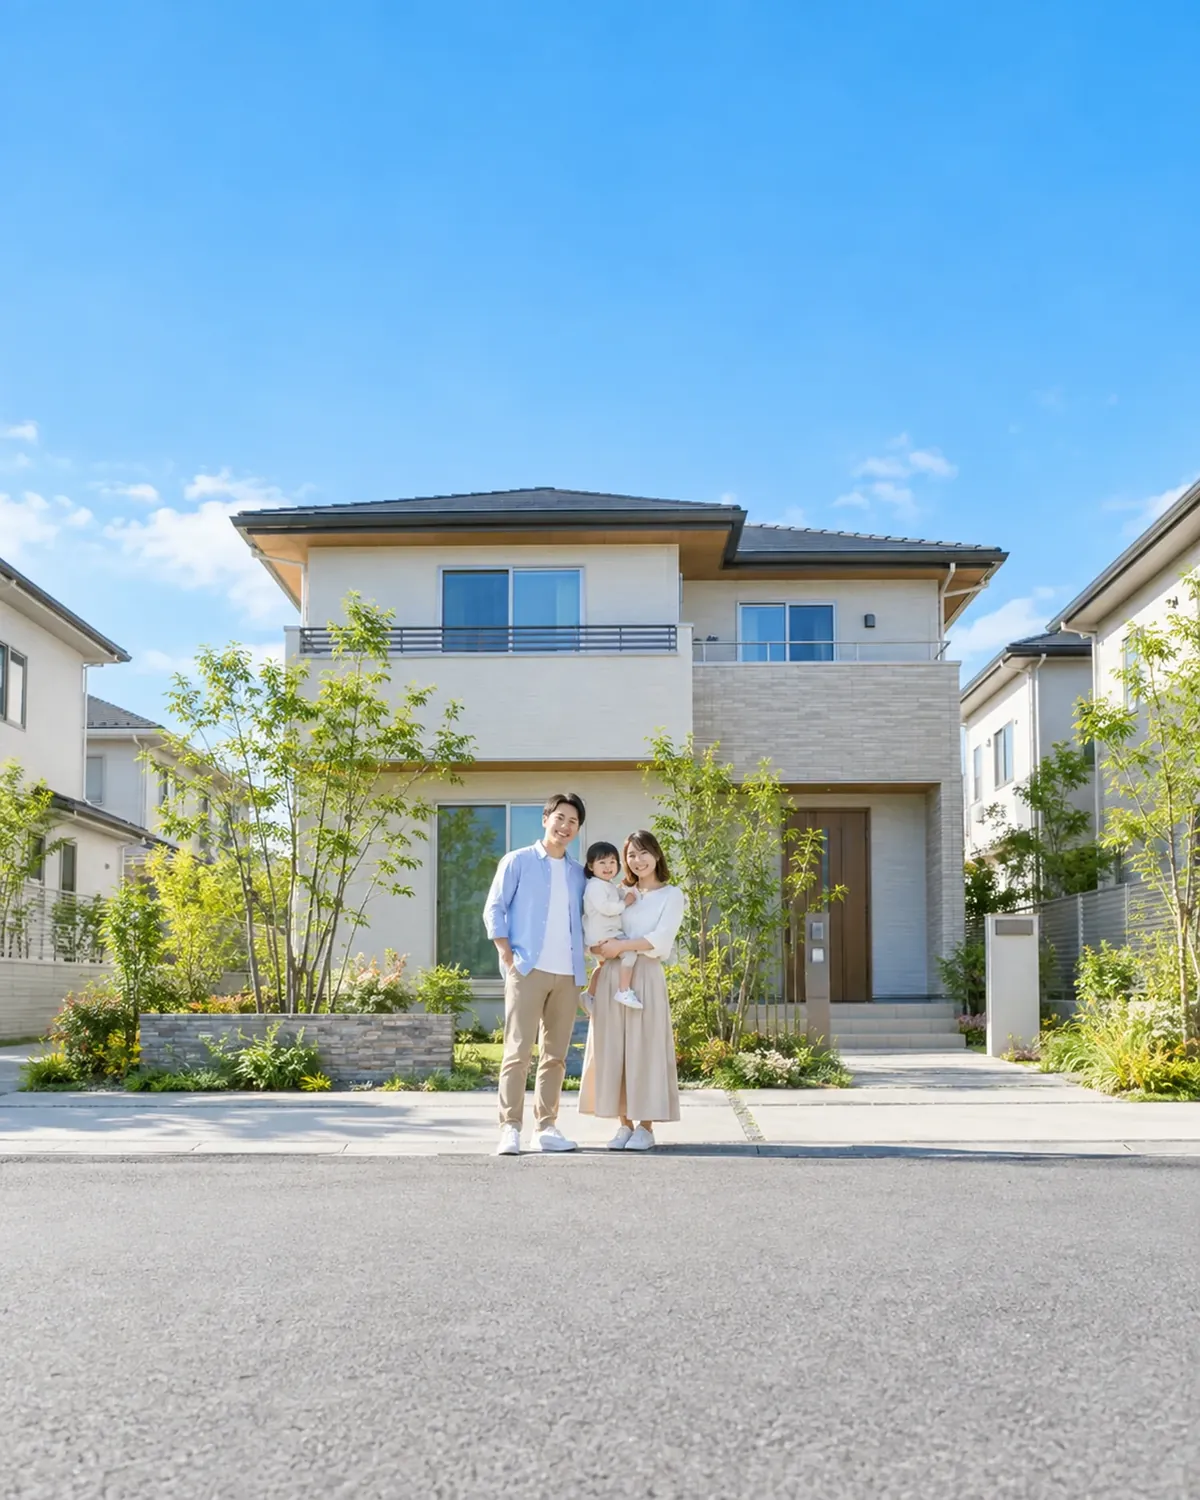
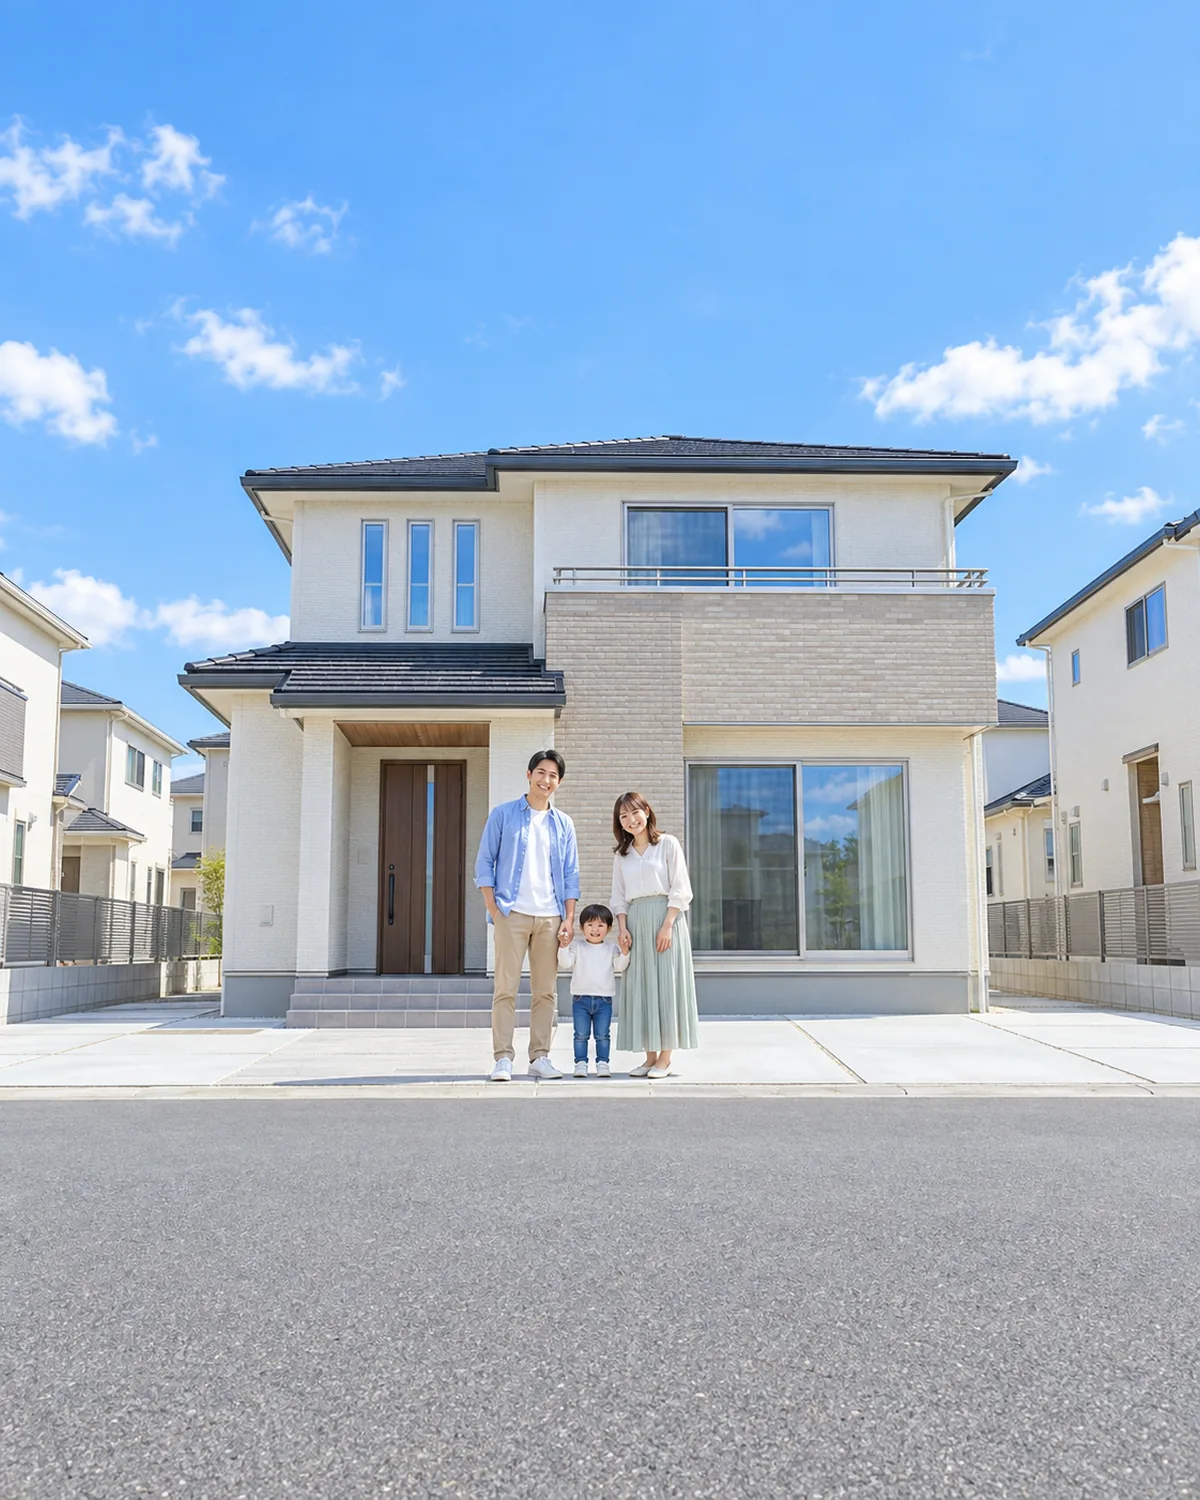
予約公開キューを再生成（初日分を main 62a4f29 のトップページ・site.css に同期。第 4〜6 週 21 本は変更なし）
Claude-Session: https://claude.ai/code/session_019dGQxe2t5A7sRLuUh8X4me

diff --git a/days/2026-09-29/site/site.css b/days/2026-09-29/site/site.css
@@ -279,7 +279,7 @@ table.cmp th { background: var(--soft); color: var(--navy); white-space: nowrap;
    写真の上に大きな見出し、オレンジの帯と丸、紺の帯、白い丸の 3 連、LINE 緑。
    すべて .lph 配下に閉じる（他ページの見た目は変えない）。
    ===================================================================== */
-.lph { --lph-orange: #f28c1e; --lph-navy: #0b2340; --lph-sky: #1e6fb8; }
+.lph { --lph-orange: #f28c1e; --lph-navy: #0b2340; --lph-sky: #1e6fb8; --pad: 12px; /* 2026-09-29 人間指示: 左右の余白を狭く（20→12px） */ }
 .lph .wrap { max-width: var(--col-max); }
 .lph-section { padding: 36px 0; }
 .lph-section--soft { background: var(--soft); }
@@ -305,17 +305,19 @@ table.cmp th { background: var(--soft); color: var(--navy); white-space: nowrap;
 .lph-hero__img { width: 100%; aspect-ratio: 4 / 5; object-fit: cover; display: block; }
 .lph-hero::before {
   content: ""; position: absolute; inset: 0;
-  background: linear-gradient(180deg, rgba(11,35,64,.62) 0%, rgba(11,35,64,.15) 38%, rgba(11,35,64,0) 55%, rgba(11,35,64,.70) 100%);
+  /* 2026-09-29 人間指示: 写真を暗くしない。暗幕はほぼ無くし、文字の可読性は text-shadow と半透明白の帯で確保する */
+  background: linear-gradient(180deg, rgba(11,35,64,.22) 0%, rgba(11,35,64,0) 30%, rgba(11,35,64,0) 70%, rgba(11,35,64,.22) 100%);
 }
 .lph-hero__top { position: absolute; left: 0; right: 0; top: 0; padding: 18px var(--pad) 0; }
 .lph-chip { display: inline-block; font-size: 12px; font-weight: 700; color: #fff; background: var(--lph-navy); padding: 5px 10px; border-radius: 3px; letter-spacing: .04em; }
-.lph-hero__title { margin-top: 10px; color: #fff; line-height: 1.2; text-shadow: 0 2px 8px rgba(11,35,64,.55), 0 0 2px rgba(11,35,64,.9); }
+.lph-hero__title { margin-top: 10px; color: #fff; line-height: 1.2; text-shadow: 0 2px 10px rgba(11,35,64,.75), 0 0 3px rgba(11,35,64,.95), 0 0 14px rgba(11,35,64,.6); }
 .lph-hero__t1 { display: block; font-size: 24px; font-weight: 800; }
-.lph-hero__t2 { display: block; font-size: 40px; font-weight: 900; letter-spacing: .01em; }
+.lph-hero__t2 { display: block; font-size: 46px; font-weight: 900; letter-spacing: .01em; line-height: 1.1; }
+.lph-hero__t2 small { font-size: 28px; font-weight: 800; margin-right: .12em; vertical-align: .12em; }
 .lph-ribbon {
   display: inline-block; margin-top: 12px; padding: 8px 14px;
-  background: var(--lph-orange); color: #fff; font-size: 14.5px; font-weight: 700; line-height: 1.5;
-  transform: rotate(-2deg); box-shadow: 0 3px 10px rgba(0,0,0,.25);
+  background: rgba(255,255,255,.82); color: var(--lph-navy); font-size: 14.5px; font-weight: 700; line-height: 1.5;
+  transform: rotate(-2deg); box-shadow: 0 3px 10px rgba(0,0,0,.18);
 }
 .lph-hero__bottom { position: absolute; left: 0; right: 0; bottom: 18px; padding: 0 var(--pad); }
 .lph-circles { display: flex; justify-content: center; gap: 10px; }
@@ -324,21 +326,28 @@ table.cmp th { background: var(--soft); color: var(--navy); white-space: nowrap;
   display: flex; flex-direction: column; align-items: center; justify-content: center;
   box-shadow: 0 6px 18px rgba(0,0,0,.25); text-align: center; line-height: 1.15;
 }
-.lph-circles b { font-size: 19px; font-weight: 900; color: var(--lph-orange); }
-.lph-circles small { font-size: 12px; font-weight: 700; color: var(--lph-navy); margin-top: 3px; }
+.lph-circles b { font-size: 24px; font-weight: 900; color: var(--lph-orange); letter-spacing: -.01em; }
+.lph-circles small { font-size: 13.5px; font-weight: 700; color: var(--lph-navy); margin-top: 3px; }
 @media (min-width: 720px) {
   .lph-hero__top { padding-top: 32px; }
   .lph-hero__t1 { font-size: 32px; }
-  .lph-hero__t2 { font-size: 56px; }
+  .lph-hero__t2 { font-size: 64px; }
+  .lph-hero__t2 small { font-size: 38px; }
   .lph-ribbon { font-size: 18px; }
-  .lph-circles b { font-size: 26px; }
-  .lph-circles small { font-size: 14px; }
+  .lph-circles b { font-size: 34px; }
+  .lph-circles small { font-size: 16px; }
 }
 /* 紺の帯（ヒーロー直下） */
-.lph-band { background: linear-gradient(180deg, #123a66 0%, #0b2340 100%); color: #fff; text-align: center; padding: 24px 0 28px; }
-.lph-band__pills { display: flex; flex-wrap: wrap; justify-content: center; align-items: center; gap: 6px; }
-.lph-band__pills span { background: var(--lph-orange); color: #fff; font-weight: 800; font-size: 15px; padding: 6px 12px; border-radius: 4px; }
-.lph-band__pills i { font-style: normal; font-weight: 800; font-size: 16px; }
+.lph-band { background: linear-gradient(180deg, #123a66 0%, #0b2340 100%); color: #fff; text-align: center; padding: 24px 0 0; }
+/* 2026-09-29 人間指示: 3 つの札を横一列（390px でも折り返さない） */
+.lph-band__pills { display: flex; flex-wrap: nowrap; justify-content: center; align-items: center; gap: 4px; white-space: nowrap; }
+.lph-band__pills span { background: var(--lph-orange); color: #fff; font-weight: 800; font-size: 13.5px; padding: 6px 8px; border-radius: 4px; }
+.lph-band__pills i { font-style: normal; font-weight: 800; font-size: 14px; }
+@media (min-width: 720px) {
+  .lph-band__pills { gap: 8px; }
+  .lph-band__pills span { font-size: 17px; padding: 7px 14px; }
+  .lph-band__pills i { font-size: 18px; }
+}
 .lph-band__lead { margin-top: 14px; font-size: 19px; font-weight: 700; line-height: 1.5; }
 .lph-band__lead strong { font-size: 26px; font-weight: 900; }
 .lph-band__sub { margin-top: 8px; font-size: 13px; color: rgba(255,255,255,.85); }
@@ -381,7 +390,7 @@ table.cmp th { background: var(--soft); color: var(--navy); white-space: nowrap;
 @media (min-width: 720px) { .lph-benefits { grid-template-columns: repeat(3, 1fr); } .lph-benefit { grid-template-columns: 1fr; text-align: center; padding: 20px 16px; } }
 
 /* 5. 対象者 */
-.lph-target { margin-top: 18px; display: grid; gap: 8px; }
+.lph-target { margin-top: 18px; padding: 0 10px; display: grid; gap: 8px; } /* 2026-09-29 人間指示: 左右の余白を少し広く */
 .lph-target li { display: flex; align-items: center; gap: 12px; background: #fff; border-radius: 8px; padding: 12px 14px; font-size: 15px; font-weight: 600; color: var(--navy); border-left: 5px solid var(--lph-orange); }
 .lph-target span { font-size: 13px; font-weight: 800; color: var(--lph-orange); flex: 0 0 auto; }
 
@@ -389,10 +398,10 @@ table.cmp th { background: var(--soft); color: var(--navy); white-space: nowrap;
 .lph-profile { margin-top: 12px; display: flex; align-items: center; gap: 18px; }
 .lph-profile__img { width: 112px; height: 112px; border-radius: 50%; object-fit: cover; border: 4px solid #fff; box-shadow: 0 6px 18px rgba(0,0,0,.3); flex: 0 0 auto; }
 .lph-profile__role { font-size: 12.5px; color: #ffd39a; font-weight: 700; }
-.lph-profile__name { font-size: 28px; font-weight: 900; color: #fff; line-height: 1.2; margin-top: 2px; }
+.lph-profile__name { font-size: 18px; font-weight: 900; color: #fff; line-height: 1.2; margin-top: 2px; } /* 2026-09-29 人間指示: 小さく */
 .lph-profile__place { font-size: 13px; color: rgba(255,255,255,.85); margin-top: 4px; }
-.lph-profile__text { margin-top: 18px; font-size: 15px; line-height: 1.9; color: rgba(255,255,255,.95); }
-@media (min-width: 720px) { .lph-profile__img { width: 140px; height: 140px; } .lph-profile__name { font-size: 34px; } }
+.lph-profile__text { margin-top: 18px; padding: 0 10px; font-size: 16.5px; line-height: 1.95; color: rgba(255,255,255,.95); } /* 2026-09-29 人間指示: 余白広く・文字大きく */
+@media (min-width: 720px) { .lph-profile__img { width: 140px; height: 140px; } .lph-profile__name { font-size: 22px; } }
 
 /* 7. メッセージ */
 .lph-quote { margin-top: 18px; padding: 22px 20px 20px 24px; background: #fff; border: 2px solid var(--lph-navy); border-radius: 4px; position: relative; box-shadow: 4px 4px 0 var(--lph-navy); }
@@ -499,7 +508,8 @@ table.cmp th { background: var(--soft); color: var(--navy); white-space: nowrap;
 @media (min-width: 720px) { .lph-cta-final .wrap { padding-top: 52px; padding-bottom: 52px; } }
 
 /* 「ひとつの計画に。」の下のバッジ画像 */
-.lph-badges { display: block; width: 100%; max-width: 460px; height: auto; margin: 14px auto 0; background: #fff; border-radius: 8px; }
+/* 2026-09-29 人間指示: 横いっぱい（.wrap の左右余白を打ち消して帯の端まで） */
+.lph-badges { display: block; width: calc(100% + var(--pad) * 2); max-width: none; height: auto; margin: 16px calc(-1 * var(--pad)) 0; background: #fff; border-radius: 0; }
 
 /* 相談バナー（各セクションの合間）: 写真＋暗幕＋白文字＋揺れる LINE ボタン */
 .lph-consult { position: relative; max-width: 760px; margin: 0 auto; overflow: hidden; background: var(--lph-navy); }

diff --git a/days/2026-09-29/index.html b/days/2026-09-29/index.html
@@ -50,13 +50,12 @@
 
 <div class="lph">
 
-<!-- 1. キャッチコピー（広告の訴求「借入があっても家を諦める前に」と一致させる） -->
+<!-- 1. キャッチコピー（2026-09-29 人間指示: 「借入があっても諦める前に。／夢の マイホーム」。広告見出しとの整合は要確認） -->
 <section class="lph-hero">
   <img class="lph-hero__img" src="assets/site/lp-hero.webp" width="1200" height="1500" alt="青空の下の新しい住宅街と、家の前に立つ家族" fetchpriority="high" decoding="async">
   <div class="lph-hero__top">
     <span class="lph-chip">住宅ローンを活用した住まいの計画の相談窓口</span>
-    <h1 class="lph-hero__title"><span class="lph-hero__t1">借入があっても、</span><span class="lph-hero__t2">家を諦める前に。</span></h1>
-    <p class="lph-ribbon">毎月のお支払いの整理と、住まいの取得をひとつの計画に。</p>
+    <h1 class="lph-hero__title"><span class="lph-hero__t1">借入があっても叶う。</span><span class="lph-hero__t2"><small>夢の</small>マイホーム</span></h1>
   </div>
   <div class="lph-hero__bottom">
     <ul class="lph-circles">
@@ -69,11 +68,19 @@
 <section class="lph-band">
   <div class="wrap">
     <p class="lph-band__pills"><span>返済の見直し</span><i>×</i><span>資金の準備</span><i>×</i><span>住まいの取得</span></p>
-    <p class="lph-band__lead">を、住宅ローンを活用して<br><strong>ひとつの計画に。</strong></p>
+    <p class="lph-band__lead">を住宅ローンを活用して<br><strong>ひとつの計画に。</strong></p>
     <img class="lph-badges" src="assets/site/lp-badges.webp" width="924" height="247" alt="提携金融機関 多数連携／ご相談料金 0円" loading="lazy" decoding="async">
-    <p class="lph-band__sub">相談は無料。相談だけでもかまいません。</p>
+  </div>
+</section>
+<!-- 2026-09-29 人間指示: 紺の帯の LINE ボタンは、写真＋文字＋LINE ボタンの相談バナーに差し替え -->
+
+<section class="lph-consult">
+  <img class="lph-consult__bg" src="assets/site/lp-consultbg.webp" width="1200" height="800" alt="" loading="lazy" decoding="async">
+  <div class="lph-consult__inner">
+    <p class="lph-consult__text">いまの支払いを整理しながら、<br>資産になるマイホームへ。<br>お一人おひとりに合った計画を、<br>無料でご提案します。</p>
+    <p class="lph-consult__head">無料相談はこちら</p>
     <a class="line-cta" href="https://lin.ee/wIjLMkF" data-cta-type="line" data-cta-position="hero" data-cta-id="hero">
-      <span class="line-cta__icon" aria-hidden="true">LINE</span>LINEで無料相談をはじめる</a>
+      <span class="line-cta__icon" aria-hidden="true">LINE</span>LINEで無料相談する</a>
   </div>
 </section>
 
@@ -198,7 +205,6 @@
       <div class="lph-profile__body">
         <p class="lph-profile__role">restartlife 運営者</p>
         <h2 class="lph-profile__name">本間 謙太郎</h2>
-        <p class="lph-profile__place">愛知県高浜市</p>
       </div>
     </div>
     <div class="lph-profile__text">

diff --git a/README.md b/README.md
@@ -1,5 +1,5 @@
 # 予約公開キュー
 
-生成: 2026-09-29T02:26:25.787Z（scripts/build-queue.mjs）
+生成: 2026-09-29T03:54:03.089Z（scripts/build-queue.mjs）
 
 `days/<日付>/` を日付順に main へ重ねると、その日の配信物になる。手で編集しない。
